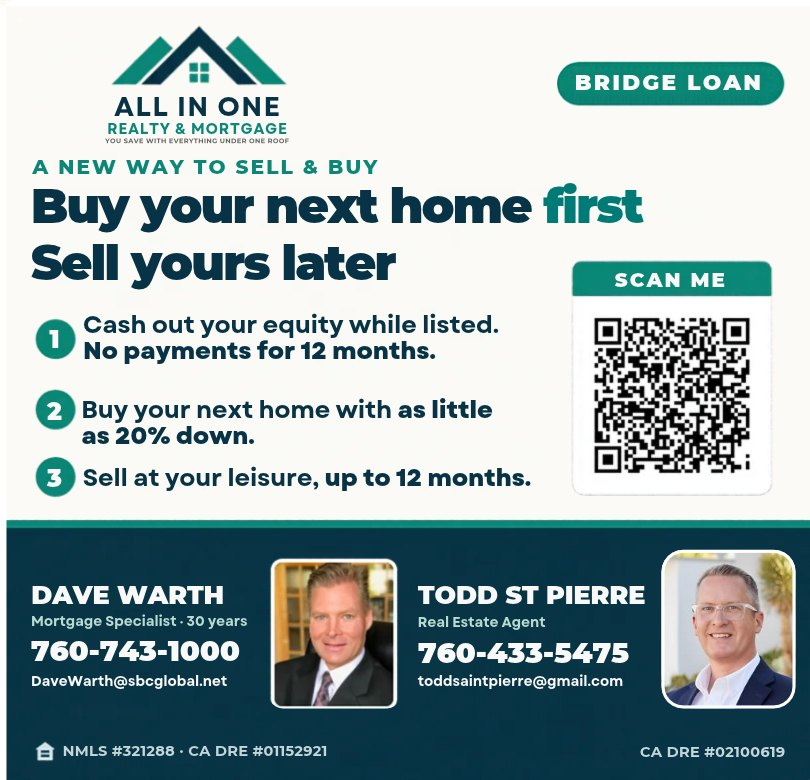
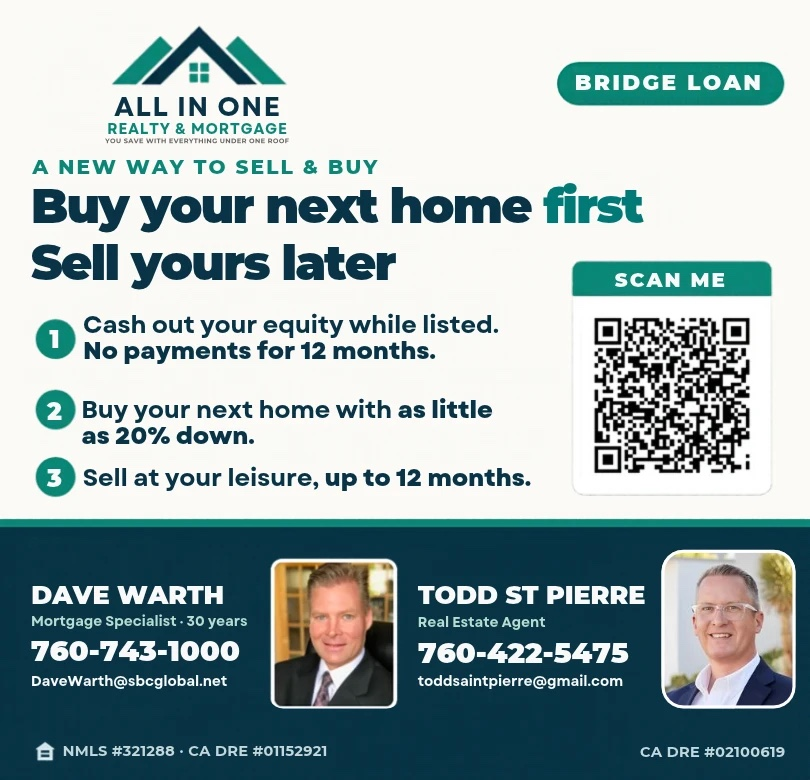
Update All in One Realty ad: Todd's phone now 760-422-5475

Changed region(s): [[0.0, 0.6462, 1.0, 1.0], [0.6173, 0.8308, 0.679, 0.8615]]

diff --git a/advertise.html b/advertise.html
@@ -75,7 +75,7 @@
 <div class="advertiser-card"><img src="assets/img/advertisers/palm-royale-sun-city.jpg?v=20261111" width="440" height="440" loading="lazy" decoding="async" alt="Palm Royale Collective (Sun City card) ad from a Spotlight card"></div>
 <div class="advertiser-card"><img src="assets/img/advertisers/cleen-x-restoration.jpg?v=20261119" width="440" height="423" loading="lazy" decoding="async" alt="Cleen X Restoration ad from a Spotlight card"></div>
 <div class="advertiser-card"><img src="assets/img/advertisers/mamma-gina-dec30.jpg?v=20261111" width="440" height="424" loading="lazy" decoding="async" alt="Ristorante Mamma Gina ad from a Spotlight card"></div>
-<div class="advertiser-card"><img src="assets/img/advertisers/all-in-one-realty-and-mortgage.jpg?v=20261111" width="440" height="424" loading="lazy" decoding="async" alt="All in One Realty &amp; Mortgage ad from a Spotlight card"></div>
+<div class="advertiser-card"><img src="assets/img/advertisers/all-in-one-realty-and-mortgage.jpg?v=20261123" width="440" height="424" loading="lazy" decoding="async" alt="All in One Realty &amp; Mortgage ad from a Spotlight card"></div>
 <div class="advertiser-card"><img src="assets/img/advertisers/casa-mendoza.jpg?v=20261111" width="440" height="424" loading="lazy" decoding="async" alt="Casa Mendoza Mexican Grill &amp; Bar ad from a Spotlight card"></div>
 <div class="advertiser-card"><img src="assets/img/advertisers/old-town-artisan-studios.jpg?v=20261112" width="440" height="423" loading="lazy" decoding="async" alt="Old Town Artisan Studios ad from a Spotlight card"></div>
 <div class="advertiser-card"><img src="assets/img/advertisers/fidelity-home-warranty.jpg?v=20261111" width="440" height="415" loading="lazy" decoding="async" alt="Fidelity National Home Warranty ad from a Spotlight card"></div>
@@ -92,7 +92,7 @@
 <div class="advertiser-card" aria-hidden="true"><img src="assets/img/advertisers/palm-royale-sun-city.jpg?v=20261111" width="440" height="440" loading="lazy" decoding="async" alt="Palm Royale Collective (Sun City card) ad from a Spotlight card"></div>
 <div class="advertiser-card" aria-hidden="true"><img src="assets/img/advertisers/cleen-x-restoration.jpg?v=20261119" width="440" height="423" loading="lazy" decoding="async" alt="Cleen X Restoration ad from a Spotlight card"></div>
 <div class="advertiser-card" aria-hidden="true"><img src="assets/img/advertisers/mamma-gina-dec30.jpg?v=20261111" width="440" height="424" loading="lazy" decoding="async" alt="Ristorante Mamma Gina ad from a Spotlight card"></div>
-<div class="advertiser-card" aria-hidden="true"><img src="assets/img/advertisers/all-in-one-realty-and-mortgage.jpg?v=20261111" width="440" height="424" loading="lazy" decoding="async" alt="All in One Realty &amp; Mortgage ad from a Spotlight card"></div>
+<div class="advertiser-card" aria-hidden="true"><img src="assets/img/advertisers/all-in-one-realty-and-mortgage.jpg?v=20261123" width="440" height="424" loading="lazy" decoding="async" alt="All in One Realty &amp; Mortgage ad from a Spotlight card"></div>
 <div class="advertiser-card" aria-hidden="true"><img src="assets/img/advertisers/casa-mendoza.jpg?v=20261111" width="440" height="424" loading="lazy" decoding="async" alt="Casa Mendoza Mexican Grill &amp; Bar ad from a Spotlight card"></div>
 <div class="advertiser-card" aria-hidden="true"><img src="assets/img/advertisers/old-town-artisan-studios.jpg?v=20261112" width="440" height="423" loading="lazy" decoding="async" alt="Old Town Artisan Studios ad from a Spotlight card"></div>
 <div class="advertiser-card" aria-hidden="true"><img src="assets/img/advertisers/fidelity-home-warranty.jpg?v=20261111" width="440" height="415" loading="lazy" decoding="async" alt="Fidelity National Home Warranty ad from a Spotlight card"></div>
